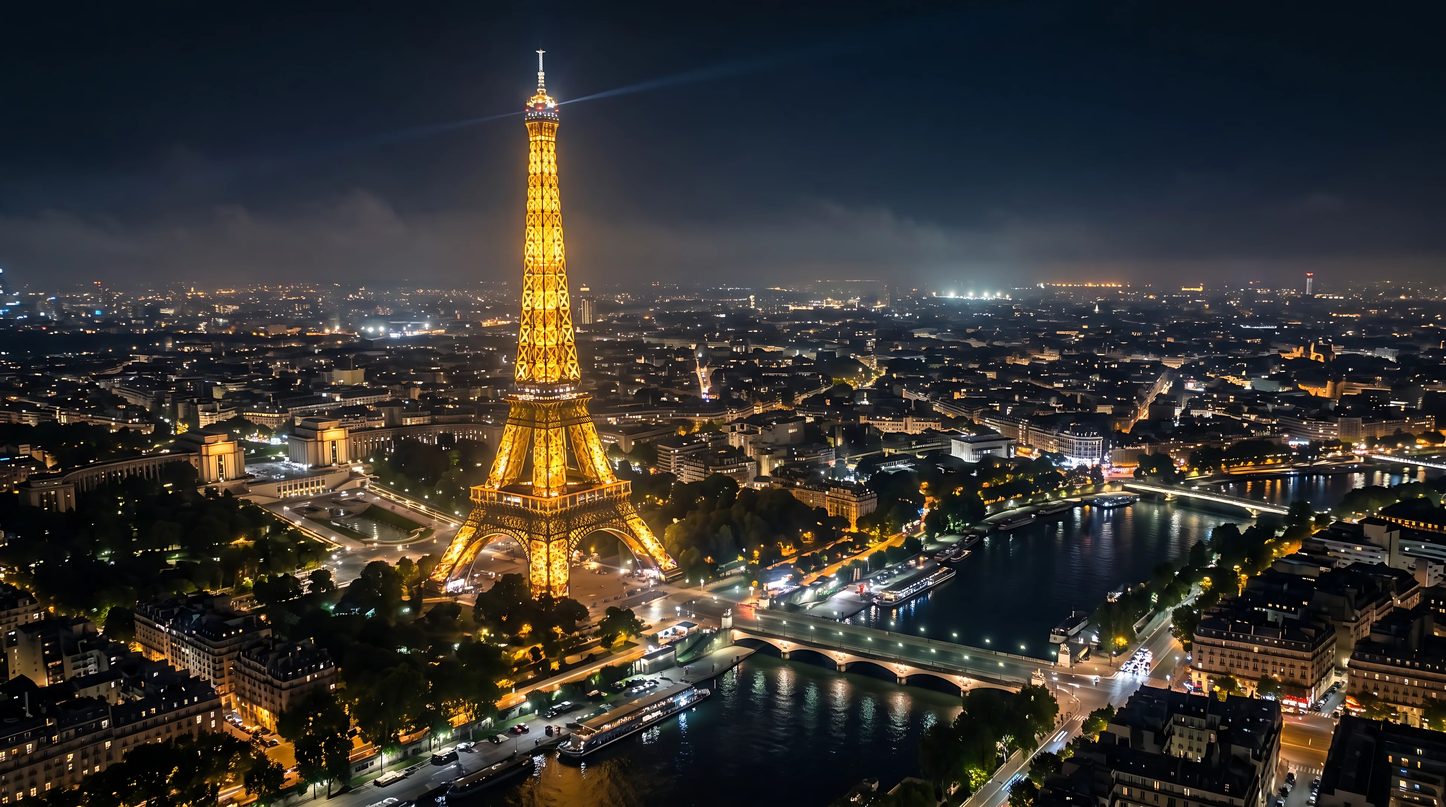
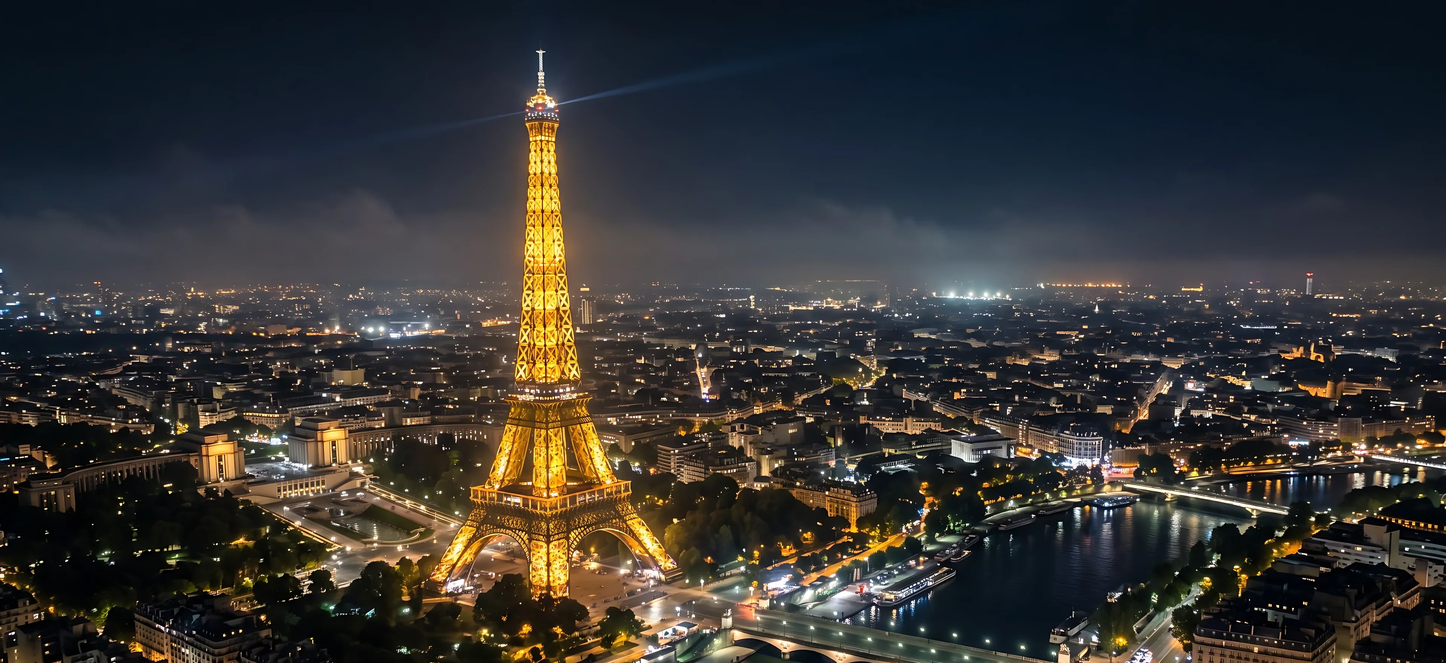
Freelook sonu: fotoğrafın altı kırpıldı, üstteki yazı kesilmiyor
Fotoğraf 3840×2143'ten 3840×1760'a (alttan) kırpıldı; sayfanın en
altında ekrana sığıyor, kule tepesi ve "Paris'ten gelen zarafet /
Freelook" tamamen görünüyor.

Claude-Session: https://claude.ai/code/session_01CciVoSARPkqjgMnWo4hdxe

diff --git a/src/lib/data/brands.ts b/src/lib/data/brands.ts
@@ -108,7 +108,7 @@ export const BRANDS: Brand[] = [
       image: "/assets/images/brands/freelook-foot.webp",
       alt: "Gece Paris: ışıklarla yanan Eyfel Kulesi, Seine nehri ve köprüleri yukarıdan",
       width: 3840,
-      height: 2143,
+      height: 1760,
       caption: { line: "Paris'ten gelen zarafet", name: "Freelook" },
     },
     theme: "gold",
